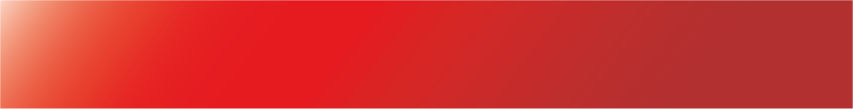
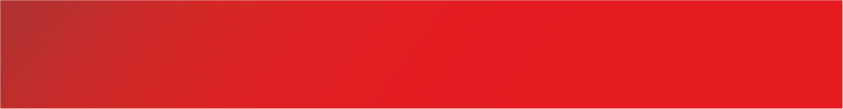
changes & features

diff --git a/app/contact/page.tsx b/app/contact/page.tsx
@@ -25,36 +25,54 @@ const Contact = () => {
 
   const handleSubmit = async () => {
     try {
-      // if (
-      //   emailData.from == "" ||
-      //   emailData.message == "" ||
-      //   emailData.number == "" ||
-      //   emailData.subject == "" ||
-      //   emailData.uname == ""
-      // ) {
-      // }
+      if (emailData.uname == "") {
+        const name: HTMLElement = document.getElementById("ad")!;
+        name.style.display = "block";
+      }
+      if (emailData.from == "") {
+        const email: HTMLElement = document.getElementById("email")!;
+        email.style.display = "block";
+      }
+      if (emailData.number == "") {
+        const phone: HTMLElement = document.getElementById("phone")!;
+        phone.style.display = "block";
+      }
+      if (emailData.subject == "") {
+        const shirket: HTMLElement = document.getElementById("shirket")!;
+        shirket.style.display = "block";
+      }
+      if (emailData.message == "") {
+        const msg: HTMLElement = document.getElementById("msg")!;
+        msg.style.display = "block";
+      }
 
-      const response = await fetch("/api/sendEmail", {
-        method: "POST",
-        headers: {
-          "Content-Type": "application/json",
-        },
-        body: JSON.stringify(emailData),
-      });
+      if (
+        emailData.from != "" &&
+        emailData.message != "" &&
+        emailData.number != "" &&
+        emailData.subject != "" &&
+        emailData.uname != ""
+      ) {
+        const response = await fetch("/api/sendEmail", {
+          method: "POST",
+          headers: {
+            "Content-Type": "application/json",
+          },
+          body: JSON.stringify(emailData),
+        });
 
-      const data = await response.json();
-      console.log(data);
+        const data = await response.json();
+        setEmailData({
+          from: "",
+          subject: "",
+          message: "",
+          number: "",
+          uname: "",
+        });
+      }
     } catch (error) {
       console.error("Error:", error);
     }
-
-    setEmailData({
-      from: "",
-      subject: "",
-      message: "",
-      number: "",
-      uname: "",
-    });
   };
 
   return (
@@ -68,9 +86,12 @@ const Contact = () => {
                 type="text"
                 name="uname"
                 value={emailData.uname}
-                required
+                required={true}
                 onChange={handleChange}
               />
+              <div id="ad" style={{ display: "none" }}>
+                {"Zəhmət olmasa sahəni doldurun"}
+              </div>
             </div>
             <div className="item-2">
               <label htmlFor="uname">Şirkət</label>
@@ -81,6 +102,9 @@ const Contact = () => {
                 required
                 onChange={handleChange}
               />
+              <div id="shirket" style={{ display: "none" }}>
+                {"Zəhmət olmasa sahəni doldurun"}
+              </div>
             </div>
             <div className="item-3">
               <label htmlFor="uname">Email</label>
@@ -91,6 +115,9 @@ const Contact = () => {
                 required
                 onChange={handleChange}
               />
+              <div id="email" style={{ display: "none" }}>
+                {"Zəhmət olmasa sahəni doldurun"}
+              </div>
             </div>
             <div className="item-4">
               <label htmlFor="uname">Telefon</label>
@@ -101,6 +128,9 @@ const Contact = () => {
                 required
                 onChange={handleChange}
               />
+              <div id="phone" style={{ display: "none" }}>
+                {"Zəhmət olmasa sahəni doldurun"}
+              </div>
             </div>
             <div className="item-5">
               <label htmlFor="uname">Mesajınız</label>
@@ -112,6 +142,9 @@ const Contact = () => {
                 required
                 onChange={handleChange}
               />
+              <div id="msg" style={{ display: "none" }}>
+                {"Zəhmət olmasa sahəni doldurun"}
+              </div>
             </div>
           </div>
 

diff --git a/components/Home/Home.tsx b/components/Home/Home.tsx
@@ -34,23 +34,15 @@ const Main = () => {
             <div className="downloads">
               <div className="downloads-costume">
                 <Link href="/catalog.pdf" download="catalog">
-                  {`"Create Industry" məhsul kataloqunu yüklə`}{" "}
-                  <svg
-                    className="w-6 h-6 text-gray-800 dark:text-white"
-                    aria-hidden="true"
-                    xmlns="http://www.w3.org/2000/svg"
-                    fill="none"
-                    viewBox="0 0 20 19"
-                    width={20}
-                  >
-                    <path
-                      stroke="currentColor"
-                      strokeLinecap="round"
-                      strokeLinejoin="round"
-                      strokeWidth="2"
-                      d="M15 15h.01M4 12H2a1 1 0 0 0-1 1v4a1 1 0 0 0 1 1h16a1 1 0 0 0 1-1v-4a1 1 0 0 0-1-1h-3M9.5 1v10.93m4-3.93-4 4-4-4"
+                  <span>{`"Create Industry" məhsul kataloqunu yüklə`}</span>{" "}
+                  <span>
+                    <Image
+                      src={"/icons/download.png"}
+                      alt="download"
+                      width={22}
+                      height={22}
                     />
-                  </svg>
+                  </span>
                 </Link>
               </div>
             </div>
@@ -59,17 +51,17 @@ const Main = () => {
           <div className="item-2">
             <div className="client">
               <div className="client-item-1">
-                <Image src="/icons/client.svg" alt="" width={66} height={66} />
+                <Image src="/icons/client.png" alt="" width={62} height={62} />
               </div>
               <div className="client-item-2">
-                <p>Müştəri yönümlülük</p>
+                <p>Müştəri məmnuniyyəti</p>
                 <p>Şirkətin əsas hədəflərindən biri müştəri məmnuniyyətidir.</p>
               </div>
             </div>
 
             <div className="worker">
               <div className="worker-item-1">
-                <Image src="/icons/worker.svg" alt="" width={66} height={66} />
+                <Image src="/icons/worker.png" alt="" width={62} height={62} />
               </div>
               <div className="worker-item-2">
                 <p>Təcrübəli və peşəkar kadrlar</p>
@@ -83,7 +75,7 @@ const Main = () => {
 
             <div className="depo">
               <div className="depo-item-1">
-                <Image src="/icons/depo.svg" alt="" width={66} height={66} />
+                <Image src="/icons/depo.png" alt="" width={62} height={62} />
               </div>
               <div className="depo-item-2">
                 <p>Anbarlama</p>

diff --git a/components/Navbar/Navbar.tsx b/components/Navbar/Navbar.tsx
@@ -1,6 +1,6 @@
 "use client";
 
-import React, { useEffect, useRef, useState } from "react";
+import React, { useRef, useState } from "react";
 import Logo from "../Logo/Logo";
 import Link from "next/link";
 import "@/styles/components/_navbar.scss";
@@ -12,6 +12,14 @@ const Navbar = () => {
   const [isOpen, setIsOpen] = useState<boolean>(false);
   const [isOpenDropDown, setIsOpenDropDown] = useState<boolean>(false);
   const outsideClick = useRef(null);
+
+  const handleClose = (e: { target: Node }) => {
+    let sidemenu__navbar: HTMLElement = document.querySelector(".app")!;
+    if (!sidemenu__navbar.contains(e.target)) {
+      setIsOpen((prev: boolean) => !prev);
+    }
+    console.log(e.target);
+  };
 
   const openSideMenu = () => {
     setIsOpen((prev: boolean) => !prev);
@@ -27,7 +35,11 @@ const Navbar = () => {
         {/* RES NAV  STARTS*/}
 
         {isOpen ? (
-          <div className="sidemenu__navbar" ref={outsideClick}>
+          <div
+            className="sidemenu__navbar"
+            ref={outsideClick}
+            onClick={() => handleClose}
+          >
             <div
               style={{
                 textAlign: "right",

diff --git a/styles/components/_navbar.scss b/styles/components/_navbar.scss
@@ -5,10 +5,9 @@
   grid-template-columns: repeat(2, 1fr);
   height: 82px;
   padding: 3px 180px;
-  // background-image: url("/images/navbar.png");
-  // background-position: center;
-  // background-size: cover;
-  background-color: #f00;
+  background-image: url("/images/navbar.png");
+  background-position: center;
+  background-size: cover;
   position: relative;
 
   .sidemenu__navbar {
@@ -28,7 +27,7 @@
       font-size: 1.1em;
       display: inline-block;
       padding-top: 10px;
-      padding-right: 10px;
+      padding-right: 15px;
 
       &:hover {
         transform: rotateY(-50%);

diff --git a/styles/pages/_about.scss b/styles/pages/_about.scss
@@ -16,19 +16,20 @@
     height: max-content;
 
     &__item-1 {
-      background-color: rgba(255, 255, 255, 0.85);
+      background-color: rgba(255, 255, 255, 0.95);
       font-size: 17px;
-      font-weight: 600;
+      font-weight: 500;
       padding: 20px;
       letter-spacing: 0.09em;
       line-height: 1.9em;
+
       .readMore--mobile {
         display: none;
       }
     }
 
     &__item-2 {
-      background-color: rgba(255, 255, 255, 0.85);
+      background-color: rgba(255, 255, 255, 0.95);
       display: flex;
       column-gap: 30px;
       justify-content: space-evenly;

diff --git a/app/shoes/page.tsx b/app/shoes/page.tsx
@@ -36,9 +36,9 @@ export default async function Products() {
                   <div className="list__image">
                     <Image
                       src={urlFor(item?.image[0]).url()}
-                      width={210}
-                      height={210}
-                      objectFit="cover"
+                      width={230}
+                      height={130}
+                      objectFit="contain"
                       alt="productPic"
                       unoptimized={true}
                     />

diff --git a/components/Footer/Footer.tsx b/components/Footer/Footer.tsx
@@ -90,7 +90,7 @@ const Footer = () => {
           </div>
           <div>
             <div>
-              <Image src="/icons/wp.png" alt="phone" width={22} height={22} />
+              <Image src="/icons/wp.png" alt="phone" width={25} height={25} />
             </div>
             <div className="context-info">
               <Link href="https://wa.link/ac1mcl">Whatsapp</Link>

diff --git a/styles/components/_carousel.scss b/styles/components/_carousel.scss
@@ -25,14 +25,13 @@
 
   .swiper-slide {
     background-position: center;
-    background-size: cover;
     height: 500px;
 
     & img {
-      display: block;
-      width: 100%;
       height: 100%;
-      object-fit: contain;
+      width: 100%;
+      object-fit: fill;
+      // object-fit: fill !important;
     }
   }
 }

diff --git a/styles/pages/_contact.scss b/styles/pages/_contact.scss
@@ -12,6 +12,16 @@
     border-radius: 5px;
 
     .grid__form {
+      #shirket,
+      #msg,
+      #phone,
+      #ad,
+      #email {
+        color: #f00;
+        font-size: 13px;
+        margin-top: 5px;
+      }
+
       label {
         display: block;
         margin: 5px 0;

diff --git a/styles/pages/_home.scss b/styles/pages/_home.scss
@@ -36,6 +36,8 @@
           text-decoration: none;
           color: #f00;
           font-weight: normal;
+          display: flex;
+          column-gap: 3px;
         }
       }
     }

diff --git a/app/page.tsx b/app/page.tsx
@@ -2,8 +2,8 @@ import Main from "@/components/Home/Home";
 
 export default function Home() {
   return (
-    <>
+    <div className="app">
       <Main />
-    </>
+    </div>
   );
 }

diff --git a/styles/components/_blogId.scss b/styles/components/_blogId.scss
@@ -1,5 +1,6 @@
 .container__blog--id {
   padding: 52px 200px;
+  text-align: center;
 
   div:nth-child(2) {
     margin-top: 25px;
